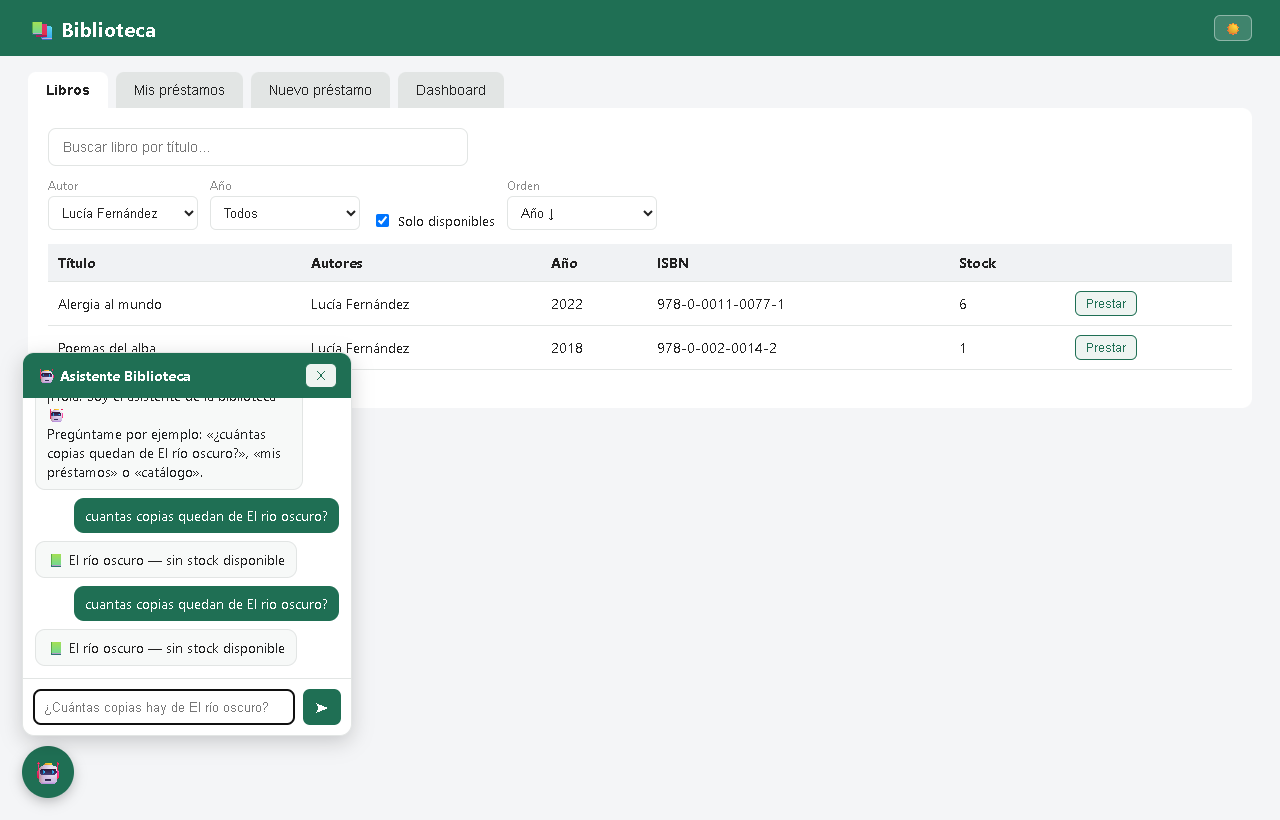
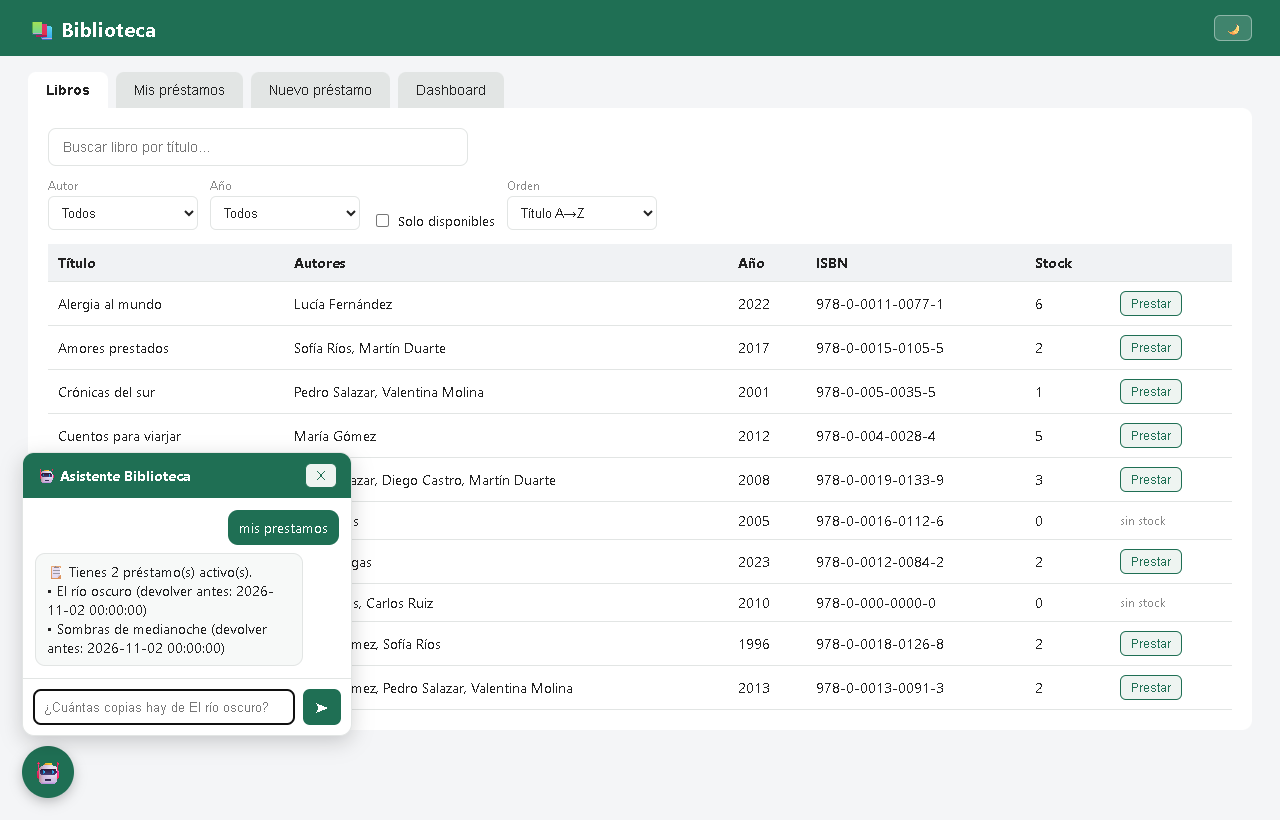
docs: capturas 11/12 rehechas (chat con conversacion real, modo oscuro con CSS corregido) + firma de autor con datos de contacto

diff --git a/README.md b/README.md
@@ -97,3 +97,11 @@ La carpeta [docs/capturas/](docs/capturas/) contiene las pantallas de la app par
 
 El diagrama entidad-relación está en [docs/01_sql_y_diagramas/diagrama_er.png](docs/01_sql_y_diagramas/diagrama_er.png).
 
+## Autor
+
+Santiago Marulanda Leguizamo
+Desarrollador de Software | Datos e IA aplicada
+
+- GitHub: https://github.com/Marusan94
+- Email: santiago.marulandal@udea.edu.co
+- Portfolio: https://capidevo.vercel.app/
